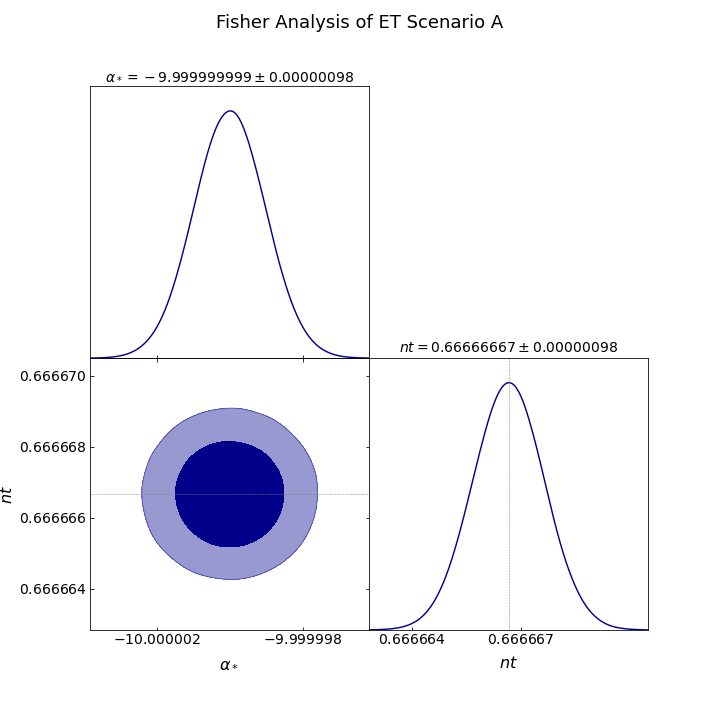
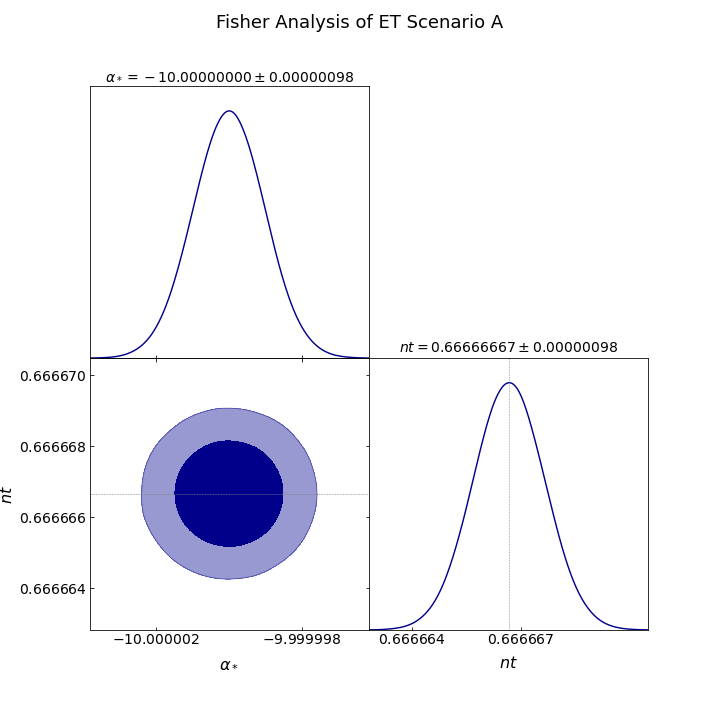
fish combines

diff --git a/Fisher/FisherMatrixBPLS.py b/Fisher/FisherMatrixBPLS.py
@@ -237,11 +237,105 @@ plt.savefig('/Users/alisha/Documents/LISA_ET/Fisher graphs/FISHERBPL_ET2.png')
 
 #%%
 #all together now
-FMA = FMLA + FMEA
-FMB = FMLB + FMEB
 
-covmA = np.linalg.inv((FMA))
-covmB = np.linalg.inv((FMB))
+def f00(f0, n1, n2, astar):
+    integrand = lambda f, f0, n1, n2, astar: (10**(2*astar)*(f/f0)**(2*n1)*(f**10/f0**10 + 1)**(-n1/5 + n2/5)*np.log(10)**2)/SigmaLisaApprox(f)
+    res = quad(integrand, ffmin, ffmax, args=(f0, n1, n2, astar))[0]
+    return T*res
+
+def f01(f0, n1, n2, astar):
+    integrand = lambda f, f0, n1, n2, astar: (10**astar*(f/f0)**n1*(f**10/f0**10 + 1)**(-n1/10 + n2/10)*(10**astar*(f/f0)**n1*(f**10/f0**10 + 1)**(-n1/10 + n2/10)*np.log(f/f0) - 10**astar*(f/f0)**n1*(f**10/f0**10 + 1)**(-n1/10 + n2/10)*np.log(f**10/f0**10 + 1)/10)*np.log(10))/SigmaLisaApprox(f)
+    res = quad(integrand, ffmin, ffmax, args=(f0, n1, n2, astar))[0]
+    return T*res
+
+def f02(f0, n1, n2, astar):
+    integrand = lambda f, f0, n1, n2, astar: (10**(2*astar)*(f/f0)**(2*n1)*(f**10/f0**10 + 1)**(-n1/5 + n2/5)*np.log(10)*np.log(f**10/f0**10 + 1)/10)/SigmaLisaApprox(f)
+    res = quad(integrand, ffmin, ffmax, args=(f0, n1, n2, astar))[0]
+    return T*res
+
+def f11(f0, n1, n2, astar):
+    integrand = lambda f, f0, n1, n2, astar: ((10**astar*(f/f0)**n1*(f**10/f0**10 + 1)**(-n1/10 + n2/10)*np.log(f/f0) - 10**astar*(f/f0)**n1*(f**10/f0**10 + 1)**(-n1/10 + n2/10)*np.log(f**10/f0**10 + 1)/10)**2)/SigmaLisaApprox(f)
+    res = quad(integrand, ffmin, ffmax, args=(f0, n1, n2, astar))[0]
+    return T*res
+
+def f12(f0, n1, n2, astar):
+    integrand = lambda f, f0, n1, n2, astar: (10**astar*(f/f0)**n1*(f**10/f0**10 + 1)**(-n1/10 + n2/10)*(10**astar*(f/f0)**n1*(f**10/f0**10 + 1)**(-n1/10 + n2/10)*np.log(f/f0) - 10**astar*(f/f0)**n1*(f**10/f0**10 + 1)**(-n1/10 + n2/10)*np.log(f**10/f0**10 + 1)/10)*np.log(f**10/f0**10 + 1)/10)/SigmaLisaApprox(f)
+    res = quad(integrand, ffmin, ffmax, args=(f0, n1, n2, astar))[0]
+    return T*res
+
+def f22(f0, n1, n2, astar):
+    integrand = lambda f, f0, n1, n2, astar:  (10**(2*astar)*(f/f0)**(2*n1)*(f**10/f0**10 + 1)**(-n1/5 + n2/5)*np.log(f**10/f0**10 + 1)**2/100)/SigmaLisaApprox(f)
+    res = quad(integrand, ffmin, ffmax, args=(f0, n1, n2, astar))[0]
+    return T*res
+
+def fisher(f0, n1, n2, astar):
+    res = np.array(((f00(f0, n1, n2, astar), f01(f0, n1, n2, astar), f02(f0, n1, n2, astar)), 
+                    (f01(f0, n1, n2, astar), f11(f0, n1, n2, astar), f12(f0, n1, n2, astar)),
+                    (f02(f0, n1, n2, astar), f12(f0, n1, n2, astar), f22(f0, n1, n2, astar))))
+    return res
+
+lisaC = [(fstar, n1, n2, a1), (fbreak, nom1, nom2, a2)]
+LISAfmC = np.array(list(map(lambda args: fisher(*args), lisaC)))
+#LISAfm = np.array(list(lambda args: fisher(*args)))
+
+FMLAC = LISAfmC[0]
+FMLBC = LISAfmC[1]
+
+
+def f00et(f0, n1, n2, astar):
+    integrand = lambda f, f0, n1, n2, astar: (10**(2*astar)*(f/f0)**(2*n1)*(f**10/f0**10 + 1)**(-n1/5 + n2/5)*np.log(10)**2)/sigp(f)
+    res = quad(integrand, ffmin, ffmax, args=(f0, n1, n2, astar))[0]
+    return T*res
+
+def f01et(f0, n1, n2, astar):
+    integrand = lambda f, f0, n1, n2, astar: (10**astar*(f/f0)**n1*(f**10/f0**10 + 1)**(-n1/10 + n2/10)*(10**astar*(f/f0)**n1*
+                                                    (f**10/f0**10 + 1)**(-n1/10 + n2/10)*np.log(f/f0) - 10**astar*(f/f0)**n1*(f**10/f0**10 + 1)**(-n1/10 + n2/10)*
+                                                    np.log(f**10/f0**10 + 1)/10)*np.log(10))/sigp(f)
+    res = quad(integrand, ffmin, ffmax, args=(f0, n1, n2, astar))[0]
+    return T*res
+
+def f02et(f0, n1, n2, astar):
+    integrand = lambda f, f0, n1, n2, astar: (10**(2*astar)*(f/f0)**(2*n1)*(f**10/f0**10 + 1)**(-n1/5 + n2/5)*np.log(10)*np.log(f**10/f0**10 + 1)/10)/sigp(f)
+    res1 = quad(integrand, ffmin, 1e-3, args=(f0, n1, n2, astar))[0]
+    res2 = quad(integrand, 1e-3, 1e0, args=(f0, n1, n2, astar))[0]
+    res3 = quad(integrand, 1e0, ffmax, args=(f0, n1, n2, astar))[0]
+    return T*sum((res1,res2,res3))
+
+def f11et(f0, n1, n2, astar):
+    integrand = lambda f, f0, n1, n2, astar: ((10**astar*(f/f0)**n1*(f**10/f0**10 + 1)**(-n1/10 + n2/10)*np.log(f/f0) - 10**astar*(f/f0)**n1*
+                                               (f**10/f0**10 + 1)**(-n1/10 + n2/10)*np.log(f**10/f0**10 + 1)/10)**2)/sigp(f)
+    res = quad(integrand, ffmin, ffmax, args=(f0, n1, n2, astar))[0]
+    return T*res
+
+def f12et(f0, n1, n2, astar):
+    integrand = lambda f, f0, n1, n2, astar: (10**astar*(f/f0)**n1*(f**10/f0**10 + 1)**(-n1/10 + n2/10)*(10**astar*(f/f0)**n1*(f**10/f0**10 + 1)**(-n1/10 + n2/10)*
+                                                np.log(f/f0) - 10**astar*(f/f0)**n1*(f**10/f0**10 + 1)**(-n1/10 + n2/10)*np.log(f**10/f0**10 + 1)/10)*np.log(f**10/f0**10 + 1)/10)/sigp(f)
+    res = quad(integrand, ffmin, ffmax, args=(f0, n1, n2, astar))[0]
+    return T*res
+
+def f22et(f0, n1, n2, astar):
+    integrand = lambda f, f0, n1, n2, astar:  (10**(2*astar)*(f/f0)**(2*n1)*(f**10/f0**10 + 1)**(-n1/5 + n2/5)*np.log(f**10/f0**10 + 1)**2/100)/sigp(f)
+    res = quad(integrand, ffmin, ffmax, args=(f0, n1, n2, astar))[0]
+    return T*res
+
+def fisheret(f0, n1, n2, astar):
+    res = np.array(((f00et(f0, n1, n2, astar), f01et(f0, n1, n2, astar), f02et(f0, n1, n2, astar)), 
+                    (f01et(f0, n1, n2, astar), f11et(f0, n1, n2, astar), f12et(f0, n1, n2, astar)),
+                    (f02et(f0, n1, n2, astar), f12et(f0, n1, n2, astar), f22et(f0, n1, n2, astar))))
+    return res
+
+ETC = [(fstar, n1, n2, a1), (fbreak, nom1, nom2, a2)]
+ETfmC = np.array(list(map(lambda args: fisheret(*args), ETC)))
+
+FMEAC = ETfmC[0]
+FMEBC = ETfmC[1]
+
+
+FMAC = FMLAC + FMEAC
+FMBC = FMLBC + FMEBC
+
+covmA = np.linalg.inv((FMAC))
+covmB = np.linalg.inv((FMBC))
 
 
 meansA = np.array((a1, n1, n2))

diff --git a/Fisher/FisherMatrix.py b/Fisher/FisherMatrix.py
@@ -197,9 +197,69 @@ plt.savefig('/Users/alisha/Documents/LISA_ET/Fisher graphs/FISHERET_B.png')
 #                 filled=True, markers={r'\alpha_*': meansB[0],'nt': meansB[1]}, title_limit=1)
 # plt.suptitle(r'Fisher Analysis of ET Scenario B')
 #%%
+########################
+#Combining
+########################
+def f00(f0, nt, astar):
+    integrand = lambda f, f0, nt, astar: (10**(2*astar)*(f/f0)**(2*nt)*np.log(10)**2)/SigmaLisaApprox(f)
+    res = quad(integrand, ffmin, ffmax, args=(f0, nt, astar))[0]
+    return T*res
+
+def f01(f0, nt, astar):
+    integrand = lambda f, f0, nt, astar: ((10**(astar))*(f/f0)**(2*nt)*np.log(10)*np.log(f/f0))/SigmaLisaApprox(f)
+    res1 = quad(integrand, ffmin, 1e-4, args=( f0, nt, astar))[0]
+    res2 = quad(integrand, 1e-4, 1e-0, args=( f0, nt, astar))[0]
+    res3 = quad(integrand, 1e-0, ffmax, args=( f0, nt, astar))[0]
+    return T*sum((res1, res2, res3))
+
+def f11(f0, nt, astar):
+    integrand = lambda f, f0, nt, astar: (10**(2*astar)*(f/f0)**(2*nt)*np.log(f/f0)**2)/SigmaLisaApprox(f)
+    res = quad(integrand, ffmin, ffmax, args=( f0, nt, astar))[0]
+    return T*res
+
+
+def fisher(f0, nt, astar):
+    res = np.array(((f00(f0, nt, astar), f01(f0, nt, astar)), 
+                        (f01(f0, nt, astar), f11(f0, nt, astar))))
+    return res
+
+lisac = np.array(((0.1, 2/3, alphaA), (0.1, 0.01, alphaB)))
+LISAfmC = np.array(list(map(lambda args: fisher(*args), lisa)))
+
+FMLAC = LISAfmC[0]
+FMLBC = LISAfmC[1]
+
+def f00et(f0, nt, astar):
+    integrand = lambda f, f0, nt, astar: (10**(2*astar)*(f/f0)**(2*nt)*np.log(10)**2)/sigp(f)
+    res = quad(integrand, ffmin, ffmax, args=(f0, nt, astar))[0]
+    return T*res
+
+def f01et(f0, nt, astar):
+    integrand = lambda f, f0, nt, astar: ((10**(astar))*(f/f0)**(2*nt)*np.log(10)*np.log(f/f0))/sigp(f)
+    res = quad(integrand, ffmin, ffmax, args=( f0, nt, astar))[0]
+    return T*res
+
+def f11et(f0, nt, astar):
+    integrand = lambda f, f0, nt, astar: (10**(2*astar)*(f/f0)**(2*nt)*np.log(f/f0)**2)/sigp(f)
+    res = quad(integrand, ffmin, ffmax, args=( f0, nt, astar))[0]
+    return T*res
+
+
+def fisheret(f0, nt, astar):
+    res = np.array(((f00et(f0, nt, astar), f01et(f0, nt, astar)), 
+                        (f01et(f0, nt, astar), f11et(f0, nt, astar))))
+    return res
+
+ETC = np.array(((0.1, 2/3, alphaA), (0.1, 0.01, alphaB)))
+ETfmC = np.array(list(map(lambda args: fisheret(*args), ET)))
+
+FMEAC = ETfm[0]
+FMEBC = ETfm[0]
+
+
 #all together now
-FMA = FMLA + FMEA
-FMB = FMLB + FMEB
+FMA = FMLAC + FMEAC
+FMB = FMLBC + FMEBC
 
 covmA = np.linalg.inv((FMA))
 covmB = np.linalg.inv((FMB))
